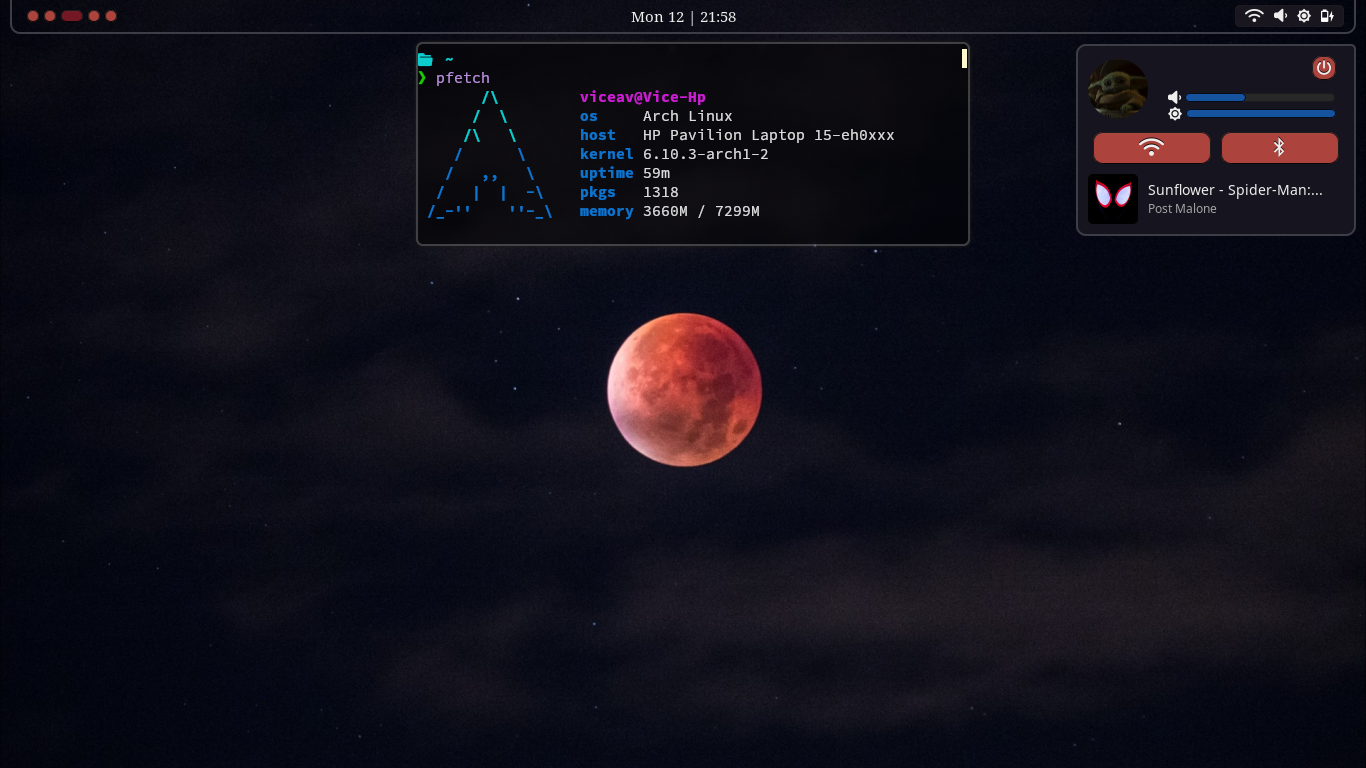
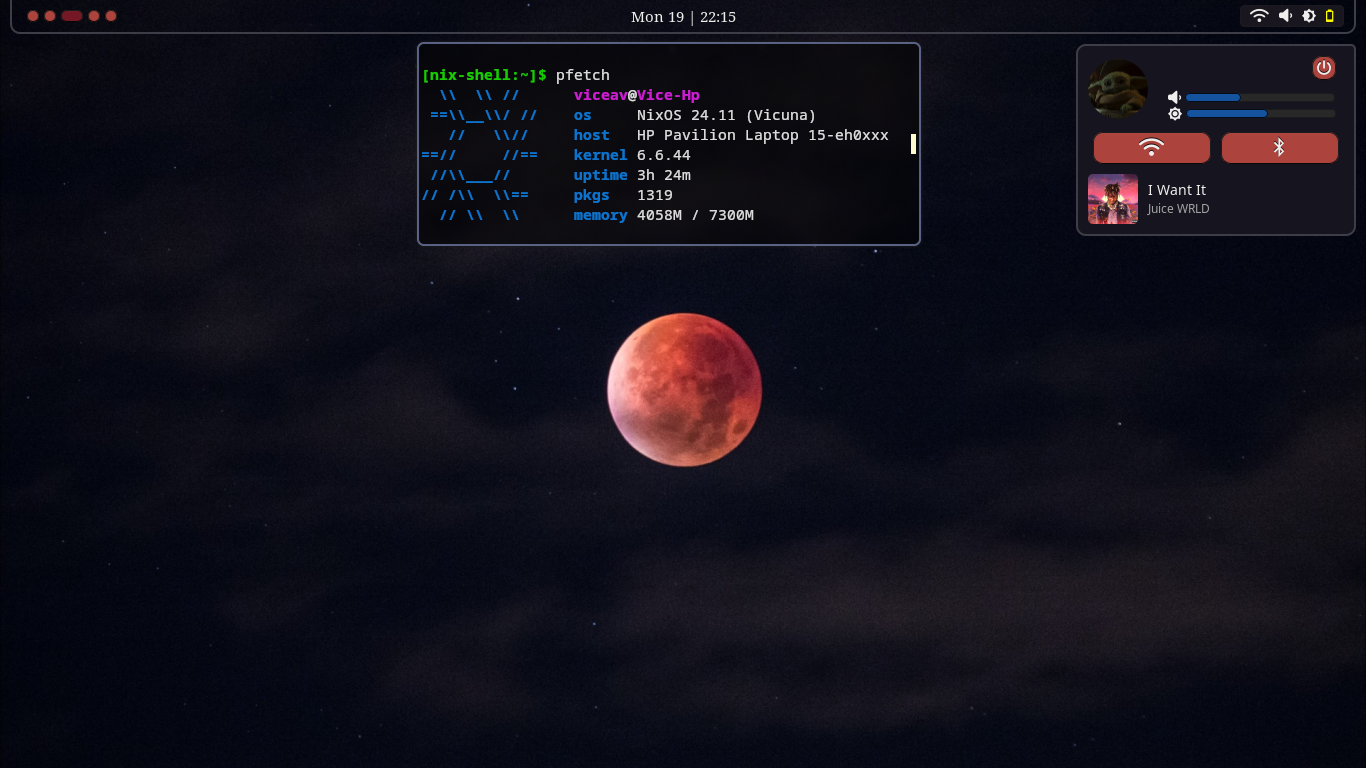
chore: update config due to nixos migration

diff --git a/ags/Widgets/QuickMenu/spotify.js b/ags/Widgets/QuickMenu/spotify.js
@@ -52,13 +52,14 @@ export default Widget.Box({
   class_name: "box",
   spacing: 10,
   children: [cover_container, label_container],
-});
+  setup: (self) => {
+    mpris.connect("changed", () => {
+      const spotify = get_player();
 
-mpris.connect("changed", () => {
-  const spotify = get_player();
-
-  const { track, artist, cover } = spotify_info(spotify);
-  label_container.children[0].label = track;
-  label_container.children[1].label = artist;
-  cover_container.css = `background-image: url('${cover}');`;
+      const { track, artist, cover } = spotify_info(spotify);
+      label_container.children[0].label = track;
+      label_container.children[1].label = artist;
+      cover_container.css = `background-image: url('${cover}');`;
+    });
+  },
 });

diff --git a/ags/Widgets/Pwoff/pwoff.js b/ags/Widgets/Pwoff/pwoff.js
@@ -9,7 +9,7 @@ const Cancel = Widget.Button({
 const Apagar = Widget.Button({
   className: "pwoff_button",
   label: "Apagar",
-  on_clicked: () => Utils.execAsync("/usr/bin/fish -c pwoff"),
+  on_clicked: () => Utils.execAsync("/usr/bin/env fish -c pwoff"),
 });
 
 const Mensaje = Widget.Label({
@@ -49,7 +49,7 @@ Power_Button.connect("button-press-event", () => {
       i--;
       if (i < 0) {
         source.destroy();
-        Utils.execAsync("/usr/bin/fish -c pwoff");
+        Utils.execAsync("/usr/bin/env fish -c pwoff");
       }
     },
     1000,

diff --git a/ags/style.css b/ags/style.css
@@ -104,11 +104,11 @@ trough {
   border-radius: 10px;
 }
 
-trough > slider {
+trough>slider {
   all: unset;
 }
 
-trough > highlight {
+trough>highlight {
   border-radius: inherit;
 }
 

diff --git a/README.md b/README.md
@@ -1,19 +1,1 @@
 ![Desktop](docs/desktop.png)
-
-# Rename directory
-
-```bash
-cd $HOME && mv dotfiles .config && cd .config
-```
-
-# Move .gitconfig
-
-```bash
-mv .gitconfig $HOME
-```
-
-# Set up packages.hook
-
-```bash
-sudo mkdir -p /etc/pacman.d/hooks && sudo ln -s $HOME/.config/packages.hook /etc/pacman.d/hooks/packages.hook
-```
